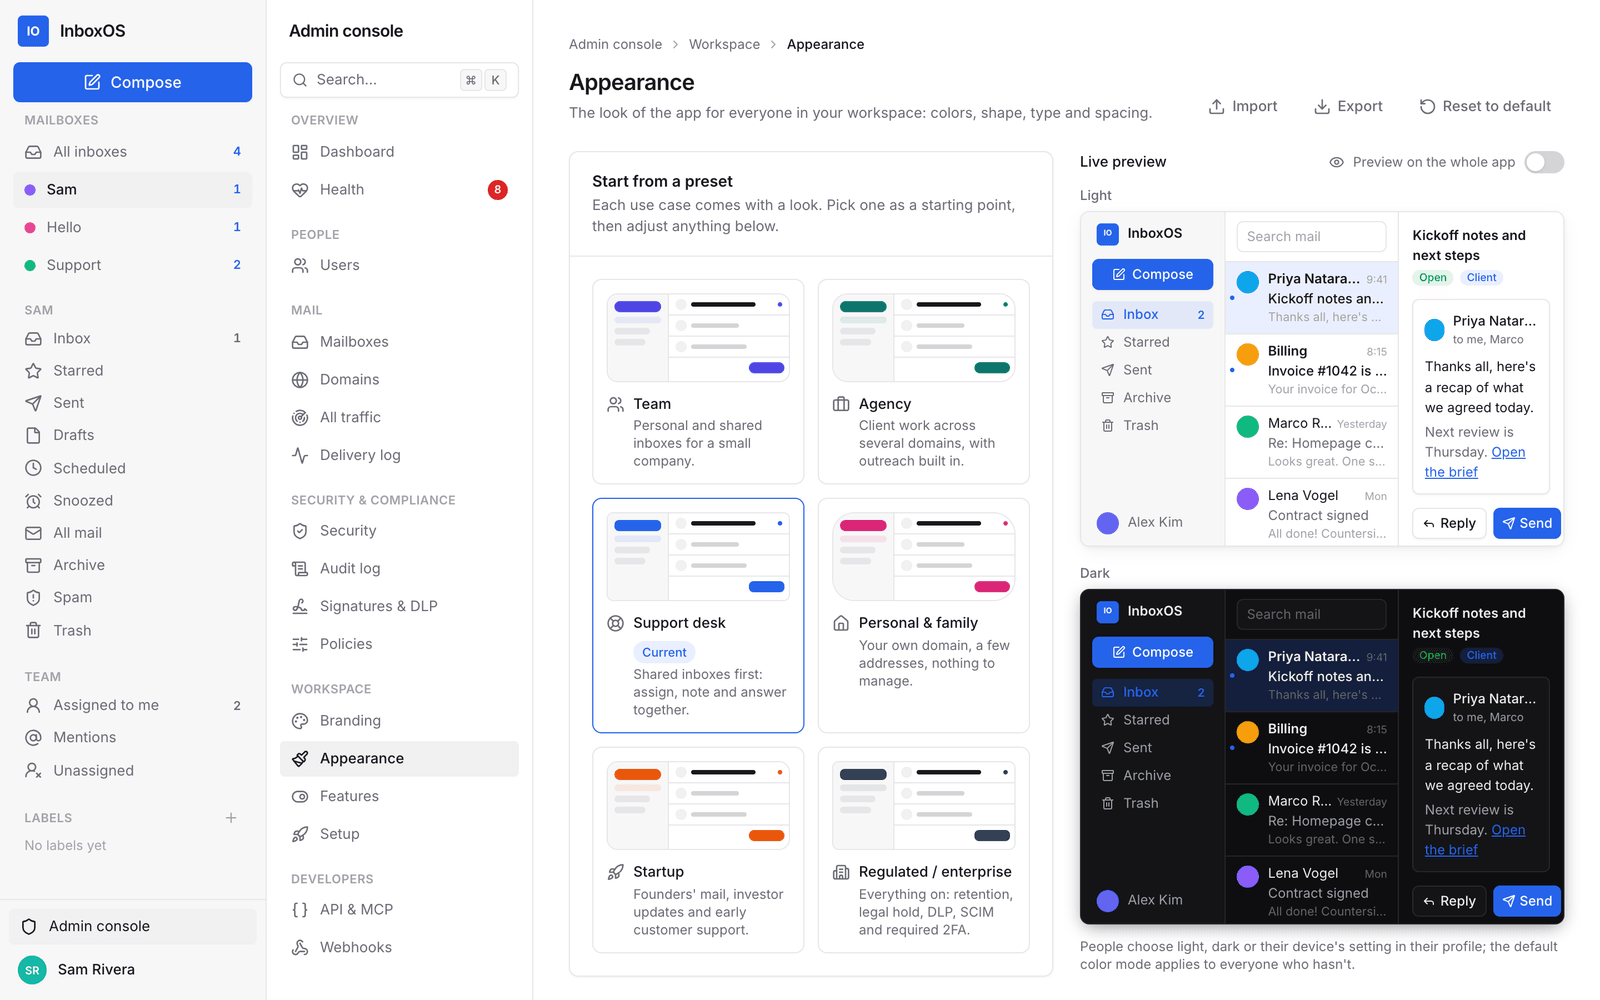
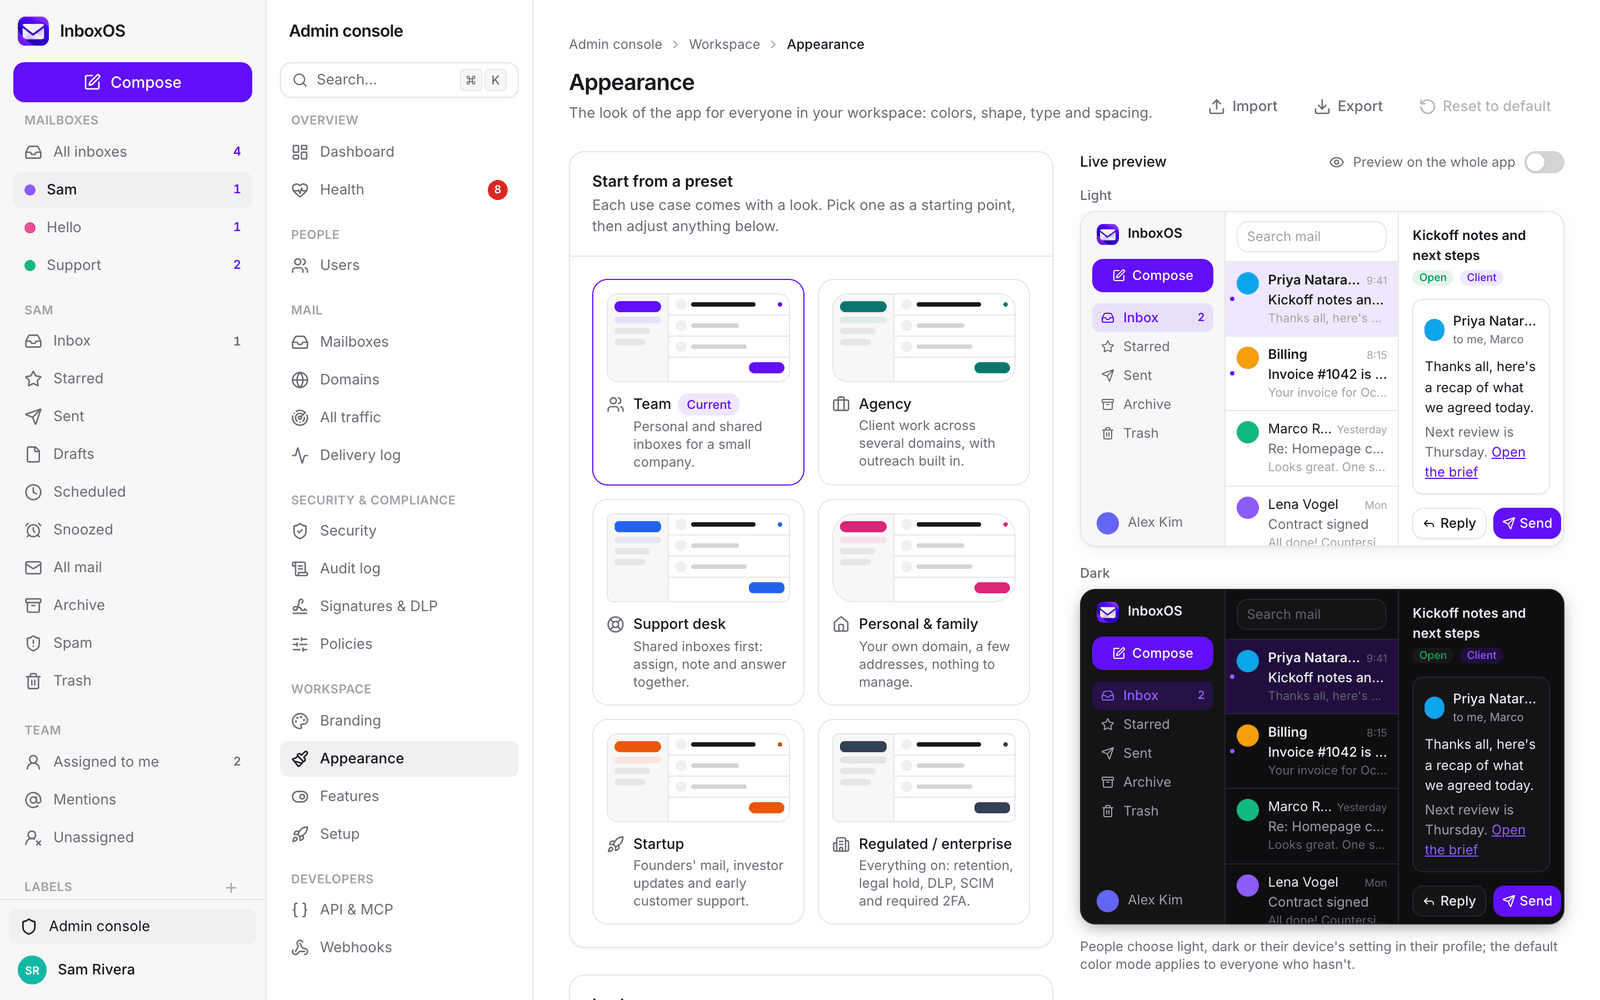
docs: new screenshots

diff --git a/README.md b/README.md
@@ -1,8 +1,9 @@
-<p align="center">
-  <img src=".github/screenshots/inbox-light.png" alt="InboxOS inbox" width="100%" />
-</p>
-
-<h1 align="center">InboxOS</h1>
+<h1 align="center">
+  <picture>
+    <source media="(prefers-color-scheme: dark)" srcset="public/brand/inboxos-wordmark.png" />
+    <img src=".github/logo-light.png" alt="InboxOS" width="420" />
+  </picture>
+</h1>
 
 <p align="center">
   <strong>Self-hosted email for your team, on your own domain.</strong><br />
@@ -11,10 +12,14 @@
 </p>
 
 <p align="center">
-  <a href="./LICENSE"><img alt="License: AGPL-3.0" src="https://img.shields.io/badge/license-AGPL--3.0-4f46e5" /></a>
+  <a href="./LICENSE"><img alt="License: AGPL-3.0" src="https://img.shields.io/badge/license-AGPL--3.0-6210f8" /></a>
   <img alt="Cloudflare Workers" src="https://img.shields.io/badge/Cloudflare-Workers%20%2B%20D1%20%2B%20R2-F38020?logo=cloudflare&logoColor=white" />
   <img alt="React 19" src="https://img.shields.io/badge/React-19-61DAFB?logo=react&logoColor=black" />
   <img alt="TypeScript" src="https://img.shields.io/badge/TypeScript-strict-3178C6?logo=typescript&logoColor=white" />
+</p>
+
+<p align="center">
+  <img src=".github/screenshots/inbox-light.png" alt="The InboxOS inbox" width="100%" />
 </p>
 
 ---
@@ -88,6 +93,8 @@
 | **Health center**: every problem with a fix | **Appearance**: presets, palettes and live previews |
 | ![Inbox in dark mode](.github/screenshots/inbox-dark.png) | ![Webhooks](.github/screenshots/webhooks.png) |
 | **Dark mode**, from the same theme tokens | **Webhooks**: signed, retried and logged |
+| ![Sign-in page](.github/screenshots/signin.png) | |
+| **Sign-in**, with your name, logo and colors | |
 
 ## How it works
 
@@ -156,12 +163,12 @@ The first visit to a fresh install opens `/setup`. Every step can be skipped and
 
 ## Make it yours
 
-Everything people see comes from settings, not code.
+Everything people see comes from settings, not code. A fresh install wears the InboxOS logo and purple accent; rename the app in the setup wizard and the logo steps aside for your initials until you upload your own.
 
 | Where | What |
 |---|---|
 | **Admin → Branding** | Company and app name, logo, monogram, sign-in headline, support email, footer, default sender name, previews of every system email |
-| **Admin → Appearance** | Use-case presets, accent, corner radius, density, fonts, text size, default color mode, and full light and dark palettes with contrast warnings. Import and export themes as JSON. |
+| **Admin → Appearance** | Use-case presets, accent, corner radius, density, fonts, text size, default color mode, and full light and dark palettes with contrast warnings. Bright accents stay readable: links and highlights automatically use a deeper shade on light backgrounds. Import and export themes as JSON. |
 | **Admin → Features** | Turn features on or off for the whole workspace. Off means hidden in the UI and refused by the API; nothing is deleted. |
 | **Settings → Profile** | Each person's photo, title, pronouns, time zone, color mode and density |
 
